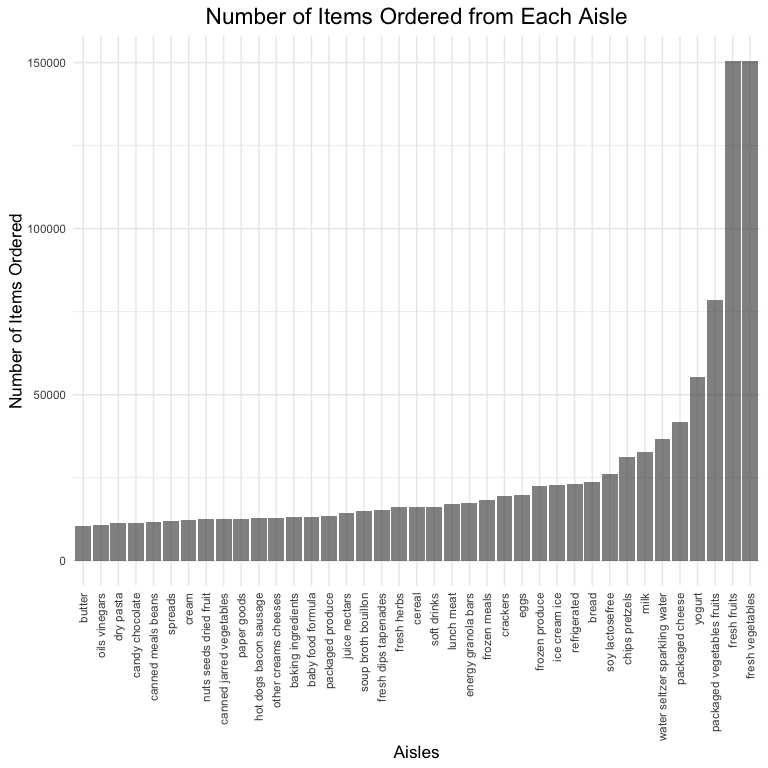
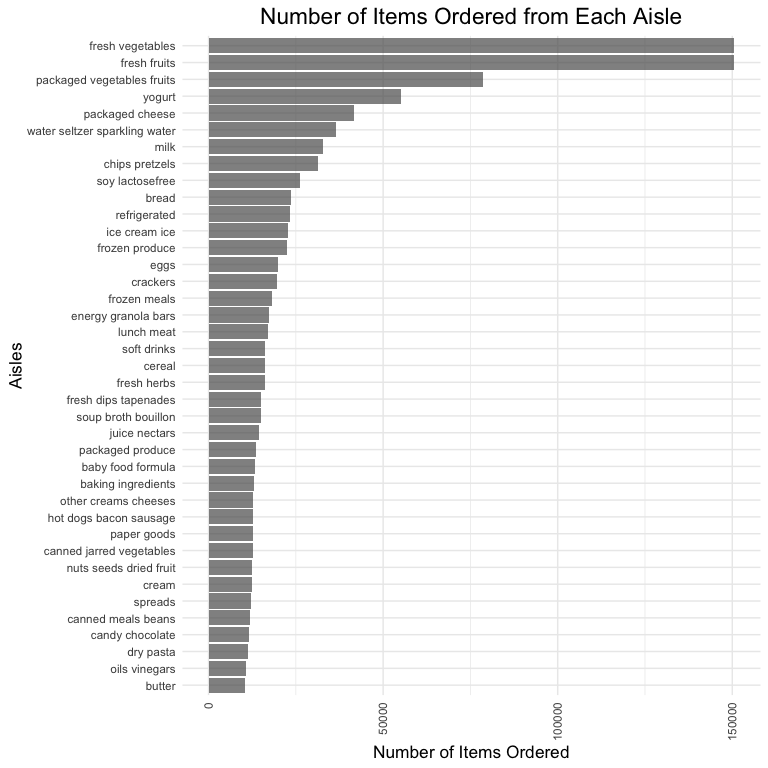
a little change on the first plot

diff --git a/p8105_hw3_yw3774.md b/p8105_hw3_yw3774.md
@@ -49,6 +49,7 @@ aisle_freq %>%
   mutate(aisle = forcats::fct_inorder(aisle)) %>% 
   ggplot(aes(x = aisle, y = n_obs)) +
   geom_col(alpha = 0.7) +
+  coord_flip() +
   labs(
     title = "Number of Items Ordered from Each Aisle",
     x = "Aisles",
